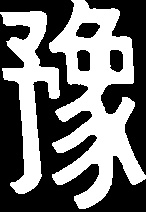
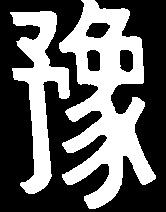
widen province

diff --git a/大作业/main.py b/大作业/main.py
@@ -106,7 +106,7 @@ def locate_provi(chrs: list):
     dx, dy, dw, dh = np.mean([np.array(chrs[i + 1]) - chrs[i] for i in range(len(chrs) - 1)][1:], dtype = int, axis=0)
     c_x, c_y = chrs[0][0] - dx, chrs[0][1] - dy
     c_w, c_h = chrs[0][2] - dw, chrs[0][3] - dh
-    return max(0, c_x), max(0, c_y), c_w, min(c_h, height - c_y)
+    return max(0, c_x - 10), max(0, c_y), c_w + 20, min(c_h, height - c_y)
 
 if __name__ == 'segment':
     for impath in (
@@ -136,7 +136,7 @@ if __name__ == 'segment':
         print(impath[impath.rfind('/') + 1:])
         cv2.imwrite("./tmp/" +impath[impath.rfind('/') + 1:], dst)
 
-if __name__ == 'getchr':
+if __name__ == '__main__':
     for impath in os.listdir('./tmp/'):
         dst = cv2.imread(os.path.join('tmp', impath))
 
